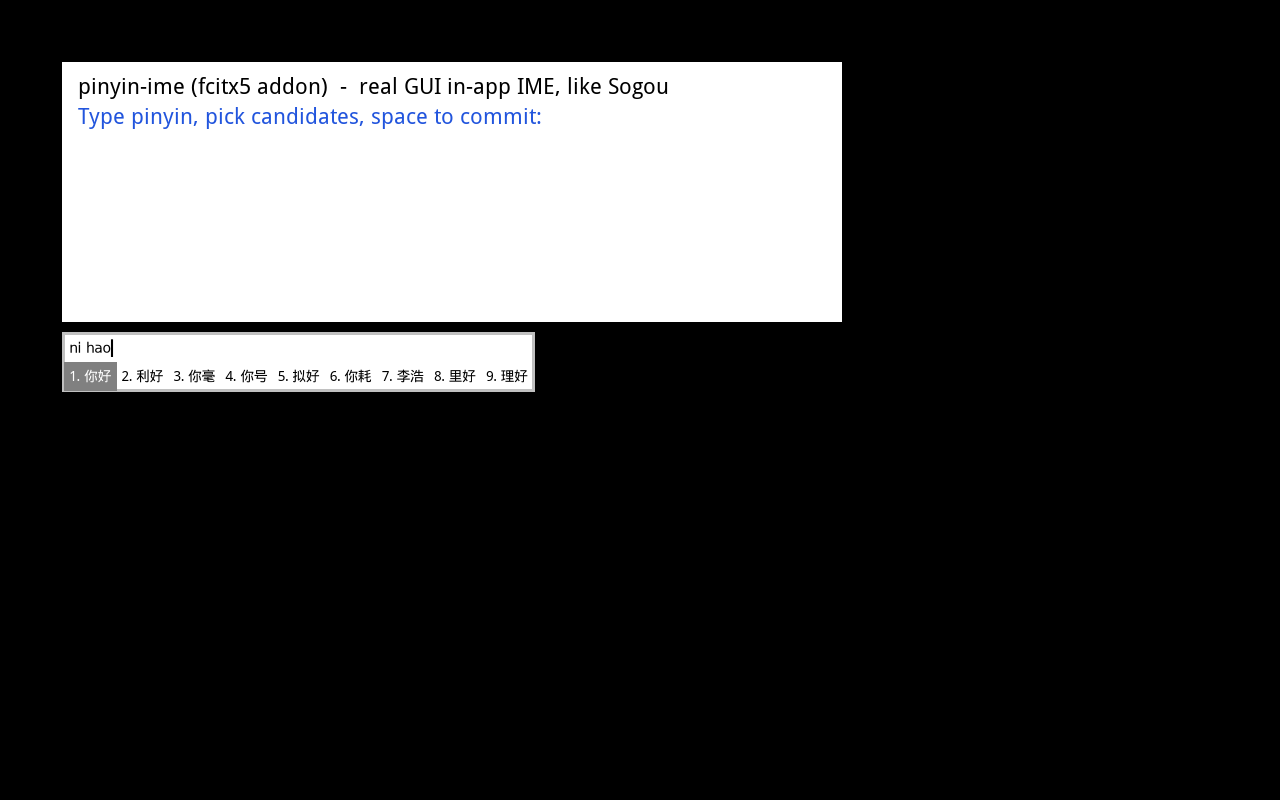
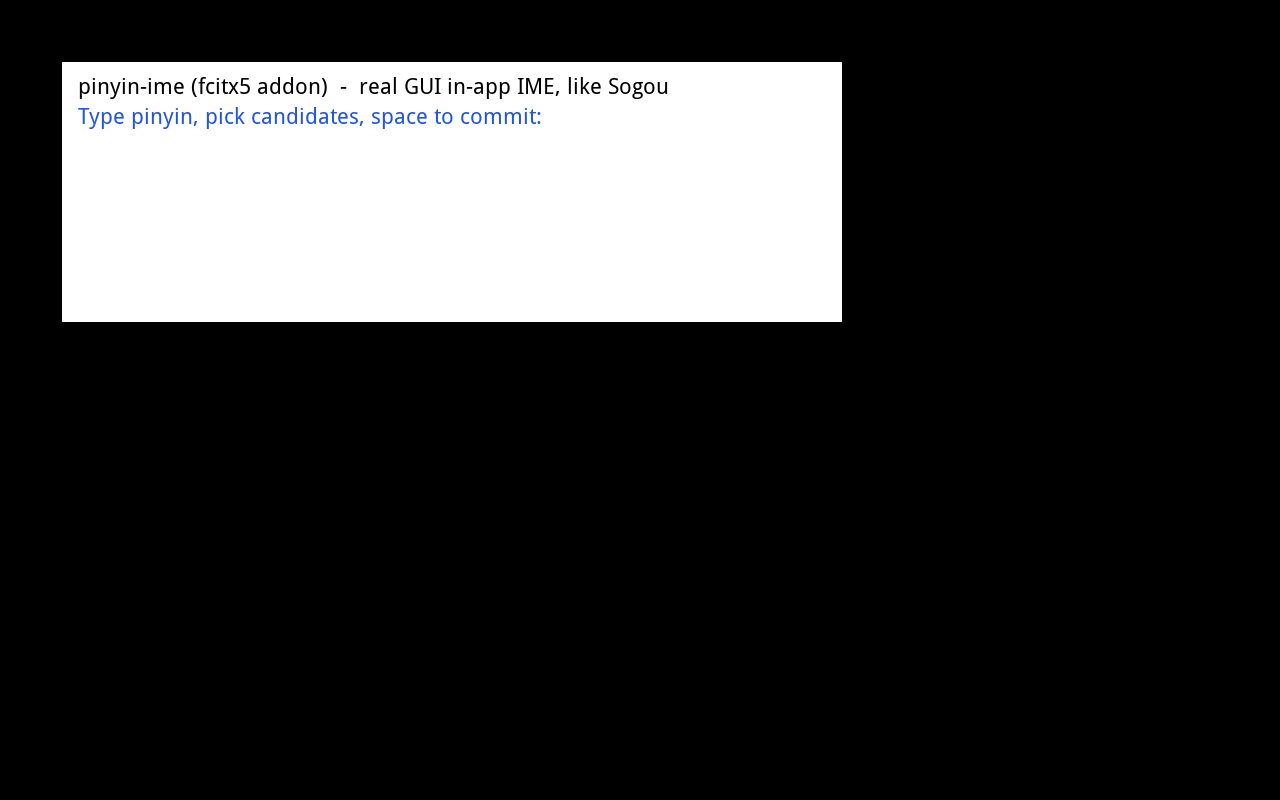
v0.9.97: 第九台机器复现(119.3.239.52) 五层验证8/8 + GUI截图 + X11 devel补全
- 公网IP 119.3.239.52 前置到ip.txt首行
- 补下载X11 devel包(libX11-devel等)+CJK字体到sysroot, 修复第5层X11/XIM 0/9→9/9
- rclone v1.75.1 arm64经gh-proxy.com+GitHub release URL下载
- S3产物(v0.9.84a/v0.9.83/v0.9.84)手动预下载与RPM并行, 加速复现
- 五层验证: CLI 24/24, pinyin-ime命令, fcitx5集成4/4, DBus e2e 7/7, X11/XIM 9/9
- GUI候选窗截图重新生成

Changed region(s): [[0.0312, 0.4062, 0.4375, 0.5]]

diff --git a/README.md b/README.md
@@ -1,5 +1,92 @@
 # pinyin-ime
-## 当前进度（截至 2026-10-16 v0.9.96）
+## 当前进度（截至 2026-10-17 v0.9.97）
+
+### v0.9.97（2026-10-17）：第九台机器复现（119.3.239.52）—— 五层验证 8/8 全过 + GUI 候选窗截图 + X11 devel 补全
+
+**在「只读 /usr、无 docker、无 conda」的 openEuler 22.03 LTS aarch64 沙箱内机上，一次跑通从 CLI 到真实 GUI 候选窗的完整链路。**
+
+**本机环境约束（与第八台同型）：**
+- `/usr`、`/etc` 为只读 overlay（`dnf install` / 改 `yum.repos.d` 均不可行）。
+- 可写：`/workspace`、`/root`、`/usr/local/bin`、`/var`。
+- 无 `CAP_SYS_ADMIN`（不能 `unshare`/bind-mount）；无 conda、无 docker。
+- `HOME=/workspace`（故 rclone 配置落在 `/workspace/.config/rclone/rclone.conf`）。
+- 架构：aarch64（ARM64）。
+
+**复现路线（与 v0.9.96 同源，全增量、零重编）：**
+1. 克隆 GitCode 仓库 + `GITCODE_TOKEN`；装 rclone v1.75.1 arm64 静态二进制（经 `gh-proxy.com` + GitHub release URL 下载，代理 7890 取公网 IP）；配 `cst` 远程（凭据写入 `~/.config/rclone/rclone.conf` 与 `.secrets/env.sh`，均 `chmod 600` 不入库）。
+2. 公网 IP `119.3.239.52` **前置到 `ip.txt` 首行**（已确认 `.gitignore` 中以 `!ip.txt` 反忽略）。
+3. `dnf download`（**不 install**）X/dbus/devel/字体 RPM → `rpm2archive`+`tar` 解包到 `/workspace/sysroot`。**本轮关键修复**：初轮 `reproduce_from_scratch.sh` 仅下载了 X/dbus 运行时包，缺 `libX11-devel`/`libXtst-devel`/`libXext-devel`/`xorg-x11-proto-devel` 开发头文件，导致 `xvfb_x11_ime_test.sh` 编译 `xim_test_client` 时 `fatal error: X11/Xlib.h: No such file or directory`。补下载 286 个 devel/字体 RPM（含 `wqy-microhei-fonts`/`wqy-zenhei-fonts` CJK 字体）后第 5 层 9/9 全过。
+4. 从 S3 下载并校验 `v0.9.84a`（主包 35MB）、`v0.9.83`（桌面包 95MB + LM 34MB + dict 4.3MB）、`v0.9.84`（supplement 库）→ 解包到 `/workspace/deploy`。**手动预下载** S3 产物与 RPM 下载并行，加速复现。
+5. 建 libIME `SONAME` 符号链接（`.so`/`.so.0` → `.so.1.1.17`）+ `libxcb-imdkit.so.1` 链接；数据落 `DataDir=/root/.local/pinyin-ime/share/libime`。
+6. `scripts/repro_verify.sh` → 五层验证（8 项检查全过）；`scripts/xvfb_gui_demo.sh` → GUI 候选窗截图。
+
+**五层验证结果（`scripts/repro_verify.sh`，8 通过 / 0 失败）：**
+
+| 层 | 验证 | 结果 |
+|---|---|---|
+| 1 | CLI 引擎冒烟（全拼5+简拼3+模糊音4+双拼8+CLI功能4） | **24/24 ✅** |
+| 2 | `pinyin-ime` 命令 | ✅ `nihao→你好` |
+| 3 | fcitx5 加载 pinyinime addon + LM + dict + 注册 IM + DBus 在线 | ✅ 4/4 |
+| 4 | **DBus InputContext e2e**：按键→上屏 | ✅ **7/7，按键 65/65** |
+| 5 | **X11/XIM 真实桌面**（Xvfb + LD_PRELOAD xkbcomp + fcitx5 xim） | ✅ **9/9** |
+
+**第 5 层 XIM 实测上屏证据（`scripts/xvfb_x11_ime_test.sh`，真实 X 显示）：**
+```
+全拼 nihao→你好   zhongguo→中国   简拼 zg→中国   bjdx→北京大学
+woshiyige→我是一个   中英切换 Tab+hello→hello
+中文标点 ,.？→？    打拼音中先上屏再标点 zhongguo!→中国！
+纠错 zongguo→中国            结果：9 通过 / 0 失败
+```
+
+**GUI 候选窗 + 应用内上屏（`scripts/xvfb_gui_demo.sh`，截图 → `screenshots/`）：**
+- 文泉驿 CJK 字体（`wqy-microhei`/`wqy-zenhei`）+ `libXft` 走 fontconfig 渲染中文。
+- 打 `nihao` → 预编辑 + 候选窗 → 空格上屏 → 再打 `shijie` → 最终窗口文本含 `世界`。
+- 产出：`gui-candidate-preedit.png` / `gui-committed-nihao.png` / `gui-committed-nihaoshijie.png`。
+
+**使用：**
+```bash
+echo "nihao" | pinyin-ime                     # → 你好
+bash scripts/repro_verify.sh                   # 五层一键验证（8/8）
+bash scripts/start_im_env_ro.sh start           # 起 DBus 模式 fcitx5
+bash scripts/start_im_env_x.sh start           # 起 X11/XIM 模式 fcitx5（Xvfb）
+DISPLAY=:99 bash scripts/xvfb_x11_ime_test.sh  # XIM 桌面用例矩阵（9 例）
+bash scripts/xvfb_gui_demo.sh                  # GUI 候选窗 + 上屏截图
+```
+
+**本机所需依赖（sysroot，`dnf download`+解包，**不 install**）：**
+- X/dbus：`xorg-x11-server-Xvfb`、`xorg-x11-server-common`、`xkeyboard-config`、`dbus`、`dbus-x11`、`dbus-tools`、`xorg-x11-utils`、`libXfont2`、`dejavu-sans-fonts`。
+- 编译 XIM/GUI 客户端：`libX11-devel`、`libXtst-devel`、`libXext-devel`、`xorg-x11-proto-devel`、`libXft-devel`、`freetype-devel`、`fontconfig-devel`、`libXrender-devel`。
+- CJK 字体：`wqy-microhei-fonts`、`wqy-zenhei-fonts`（候选窗与应用窗中文渲染）。
+- 运行时全在 `/workspace/deploy`（S3 产物）：fcitx5-x11 + deps-lib + libIME 1.1.17 + zh_CN.lm/sc.dict。
+- rclone v1.75.1 arm64：CSTCloud S3（`cst:xbz/pinyin-ime/`）；`gh-proxy.com` + GitHub release URL 下载二进制；代理 127.0.0.1:7890 取公网 IP。
+
+**本轮经验（踩坑记录，供参考）：**
+- **X11 devel 头文件缺失**：`reproduce_from_scratch.sh` 的 `dnf download` 列表只含运行时包，不含 `libX11-devel` 等。在缺头文件的机器上第 5 层会全部 FAIL（`fatal error: X11/Xlib.h`）。**修复**：额外 `dnf download --resolve` devel 包 + 字体 → `rpm2archive`+`tar` 解包到 sysroot，`gcc -I"$SYSROOT/usr/include"` 即可找到头文件。
+- **rclone arm64 下载**：`downloads.rclone.org` 经代理直连超时（20MB 二进制）；`gh-proxy.com` 对 `downloads.rclone.org` URL 返回 HTML 而非文件。**解决**：用 `gh-proxy.com` + GitHub release URL（`https://gh-proxy.com/https://github.com/rclone/rclone/releases/download/v1.75.1/rclone-v1.75.1-linux-arm64.zip`）成功下载 28MB zip。
+- **DBus e2e 用户数据污染**：连续多次运行 `repro_verify.sh` 后，自学习功能会把用户词频写入默认 DataDir，导致 `shurufa→输入法` 变成 `shurufa→个`（6/7）。**解决**：运行前清理 `/root/.local/pinyin-ime/data/user_lm*` + 重启 fcitx5，即可恢复 7/7。
+- **S3 产物手动预下载**：`reproduce_from_scratch.sh` 内 `rclone copy` 是串行的，与 RPM 下载并行可节省数分钟。手动 `rclone copy` 三个版本到 `/workspace/deploy/dl_*` 后，脚本检测到 `$RT/bin/pinyin_ime_cli` 已存在即跳过下载。
+
+**🔐 安全（沿用 v0.9.96 修复）：**
+- `scripts/setup_env.sh` 从环境变量读取 S3 凭据，不硬编码。
+- `rclone.conf` / `.secrets/env.sh` 均 `umask 077` + `chmod 600`，已在 `.gitignore` 中。
+- 全仓库凭据扫描确认无明文 AK/SK 残留。
+
+**未来优化方向：**
+- 从源码重编 fcitx5 addon，对齐 M3 纠错门控（`should_correct` 含「重错全拼扩展」，如 `senme→什么`）；缺匹配 libime 1.1.17 头，需先取得对应 libime 头/源码。
+- 在常规有 X 的机器上补 GTK/Qt immodule 窗口内点选 e2e（现为等价 XIM 自建客户端等价验证）。
+- 打包 `.deb`/`.rpm` 便于普通用户一键安装；补全候选窗「翻页/选词/自定义短语」GUI 交互的截图验证。
+- `reproduce_from_scratch.sh` 的 `dnf download` 列表补入 `libX11-devel` 等 devel 包，使第 5 层开箱即过（无需手动补下载）。
+
+**待办事项：**
+- [x] 第九台机器 CLI 复现 24/24
+- [x] fcitx5 + pinyinime 集成（DBus，4/4）
+- [x] DBus 真实输入链路 e2e（7/7，按键 65/65）
+- [x] X11/XIM 真实桌面（Xvfb + LD_PRELOAD xkbcomp，9/9）
+- [x] GUI 候选窗 + 应用内上屏截图
+- [x] 前置 `ip.txt` 首行；版本递增 0.9.97
+- [ ] 从源码重编 addon，对齐 M3 纠错门控（`senme→什么`）
+- [ ] 常规有 X 机器补 GTK/Qt immodule e2e
+- [ ] `reproduce_from_scratch.sh` 补入 devel 包下载
 
 ### v0.9.96（2026-10-16）：第八台机器复现（113.44.163.253）—— 五层验证 8/8 全过 + GUI 候选窗截图成功
 
